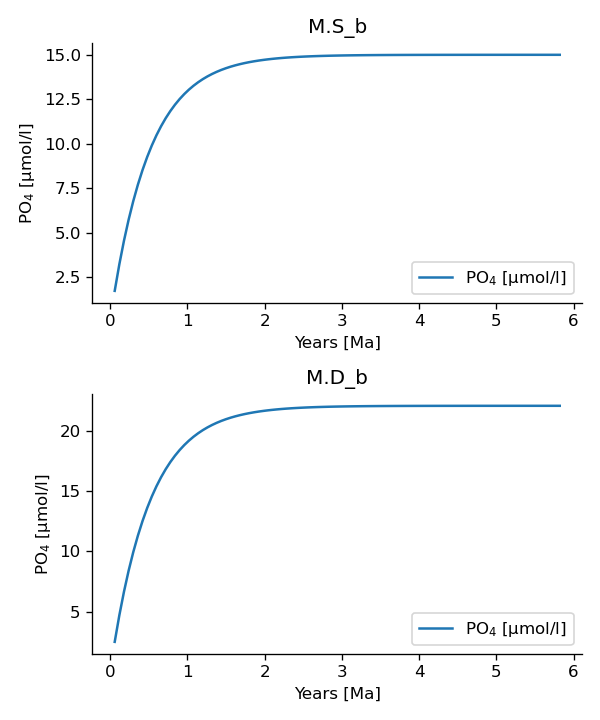
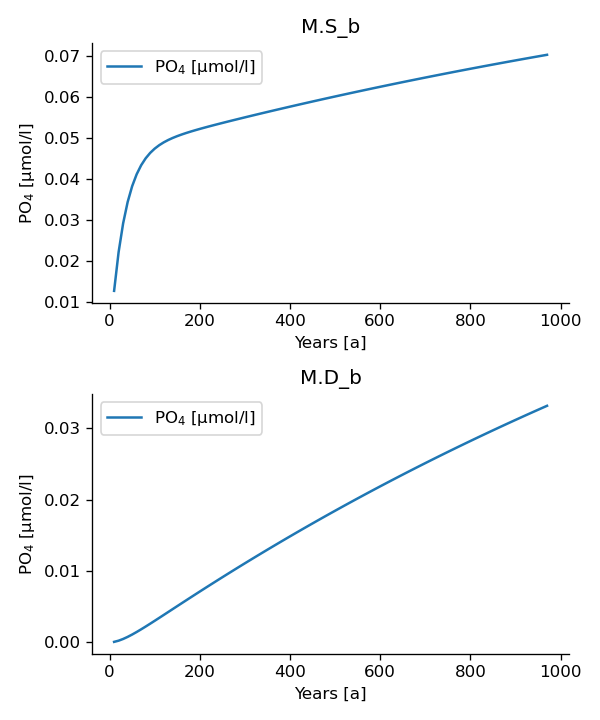
feat: Provide example how to suppluy user defined code
Update the parameter name in the `my_burial` function from `scale` to `p`. This change is necessary to properly extract the scale information from the tuple.

diff --git a/examples/my_functions.py b/examples/my_functions.py
@@ -1,4 +1,4 @@
-def my_burial(concentration: float, scale: float) -> float:
+def my_burial(concentration: float, p: tuple) -> float:
     """Calculate a flux as a function of concentration
 
     Parameters
@@ -11,24 +11,39 @@ def my_burial(concentration: float, scale: float) -> float:
     Returns
     -------
     float
-        flux
+        flux in model mass unit / time
 
+    Notes: the scale information is passed as a tuple, so we need
+    extract it from the tuple before using it
+
+    f is a burial flux, so we need to returm a negative number.
     """
+    (scale,) = p
+
     f = concentration * scale
 
-def init_carbonate_system_1(source, sink, species, scale)-> None:
-    """TBD
+    return -f
+
+
+def add_my_burial(source, sink, species, scale) -> None:
+    """This function initializes a user supplied function
+    so that it can be used within the ESBMTK eco-system
 
     Parameters
     ----------
-    r : Reservoir
-        Reservoir
-    
+    source : Source | Reservoir | ReservoirGroup
+        A source
+    sink : Sink | Reservoir | ReservoirGroup
+        A sink
+    species : Species
+        A model species
+    scale : float
+        A scaling factor
+
     """
-    
     from esbmtk import ExternalCode, register_return_values
 
-    p = (scale,)  # must be a tuple!
+    p = (scale,)  # convert float into tuple
     ec = ExternalCode(
         name="mb",
         species=source.species,
@@ -39,15 +54,8 @@ def init_carbonate_system_1(source, sink, species, scale)-> None:
         function_params=p,
         register=source,
         return_values=[
-            {f"F_{sink.full_name}.spcies.name": "any string"},
+            {f"F_{sink.full_name}.{species.name}": "id_string"},
         ],
     )
-    # Add to the list of functions to be imported in ode backend
+
     register_return_values(ec, source)
-    source.mo.lpc_i.append(ec.fname) 
-
-def add_my_burial(source, sink, species, scale)-> None:
-    """ TBD """
-
-    init_carbonate_system_1(source, sink, species, scale)
-    

diff --git a/examples/user_defined_functions.py b/examples/user_defined_functions.py
@@ -11,8 +11,8 @@ from esbmtk import (
 
 # define the basic model parameters
 M = Model(
-    stop="6 Myr",  # end time of model
-    timestep="1 kyr",  # upper limit of time step
+    stop="1000 yr",  # end time of model
+    timestep="1 yr",  # upper limit of time step
     element=["Phosphor"],  # list of element definitions
     # parse_model=False,
 )
@@ -83,24 +83,32 @@ Connection(  #
     id="primary_production",
 )
 
-# Connection(  #
-#     source=M.D_b,  # source of flux
-#     sink=M.burial,  # target of flux
-#     ctype="scale_with_flux",
-#     ref_flux=M.flux_summary(filter_by="primary_production", return_list=True)[0],
-#     scale=1 - R_e,
-#     id="burial",
-# )
+# --- Adding a user supplied function into the model --- #
 
-# --- add user defined function ---- #
-# register function and lib
+""" To add a user supplied function, we need a local file
+(e.g., my_functions.py) where we define our new function
+(e.g.,  my_burial()). In addition we need some code that
+describes the relationship of this function with the model
+(e.g., add_my_function()).
+
+Assuming that the functions my_burial() and
+add_my_burial() exist in the local file my_functions.py,
+we can register the module my_functions.py, and the
+function my_burial() with the ESBMTK model using the aptly
+named register_user_function() function. Note that the
+function name can also be a list of several function names.
+"""
 register_user_function(M, "my_functions", "my_burial")
 
-# load helper functions
+""" Next we import the import the function add_my_burial()
+into this script, so that we connect it with the model.
+Unlike my_burial() the add_my_burial() function can also be
+defined in this script.
+"""
 from my_functions import add_my_burial
 
-# apply user function
-add_my_burial(M.D_b, M.burial, M.PO4, M.S_b.volume / 1e3)
+# Last but not least, apply the new function
+add_my_burial(M.D_b, M.burial, M.PO4, M.D_b.volume.magnitude / 2000.0)
 
 M.run()
 M.plot([M.S_b, M.D_b], fn="po4_1.png")
